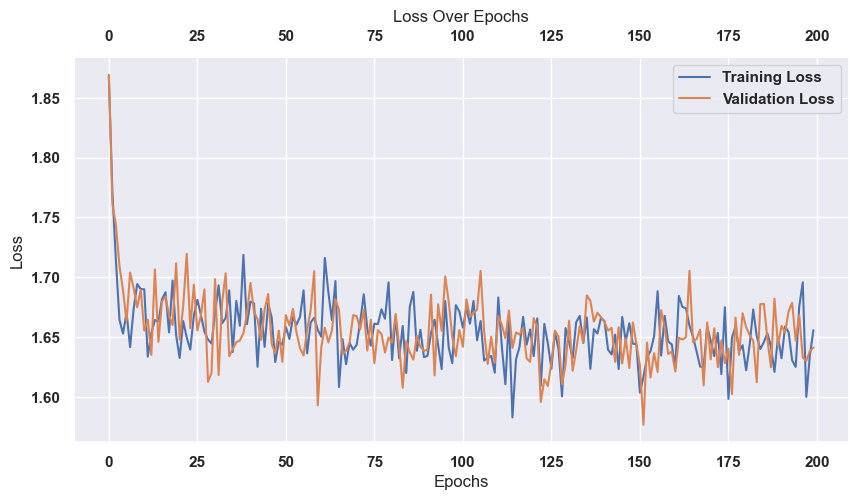
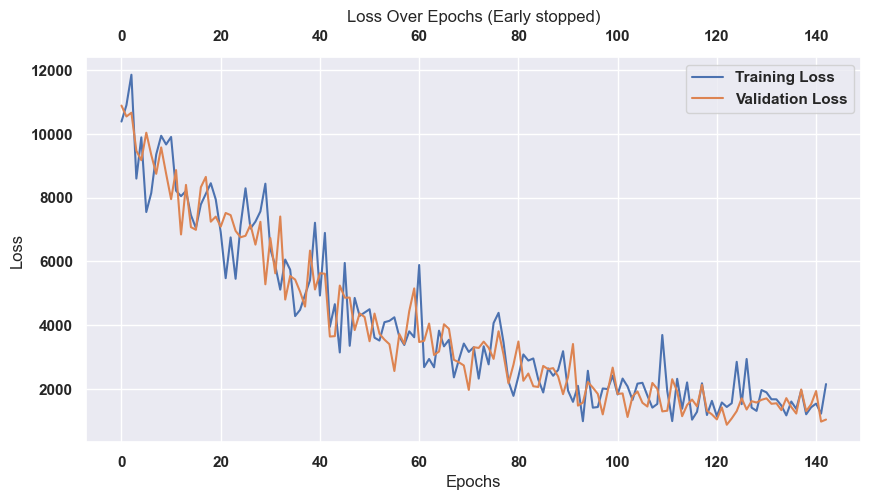
Updated readme

diff --git a/nn_training.py b/nn_training.py
@@ -33,7 +33,7 @@ def nnTraining(dataset, output_size):
   
   input_size = CustomDataset.input_size
   hidden_size = 64
-  num_layers = 1
+  num_layers = 2
   output_size = 1
   learning_rate = 0.001
   device = torch.device('cuda' if torch.cuda.is_available() else 'cpu')
@@ -45,6 +45,7 @@ def nnTraining(dataset, output_size):
   '''Trainin loop with early stopping'''
   num_epochs = 200
   patience = 20
+  best_loss = float('inf')
   best_model_wts = None
 
   train_losses = []
@@ -62,8 +63,10 @@ def nnTraining(dataset, output_size):
     val_losses.append(val_loss.mean().item())
 
     if epoch % 10 == 0:
-        print(f"Epoch {epoch}/{num_epochs}, Train Loss: {loss.item()}, Val Loss: {val_loss.item()}")
-    best_model_wts = model.state_dict()
+      print(f"Epoch {epoch}/{num_epochs}, Train Loss: {loss.item()}, Val Loss: {val_loss.item()}")
+    if val_loss < best_loss:
+      best_loss = val_loss
+      best_model_wts = model.state_dict()
 
     if early_stopper.early_stop(val_loss.item()):
       print(f"Early stopping at epoch {epoch}")
@@ -77,7 +80,8 @@ def nnTraining(dataset, output_size):
   plt.legend()
   plt.title('Loss Over Epochs (Early stopped)' if early_stopper.early_stopped else 'Loss Over Epochs')
   plt.savefig('./docs/loss_latest.png', bbox_inches='tight')  
-
+  
+  # torch.save(model.state_dict(), "horzie_model.pth") # Save the model
   best_model = model.load_state_dict(best_model_wts)
 
 def do_training(model, lossfn, optimizer, dataloader):

diff --git a/README.md b/README.md
@@ -31,21 +31,64 @@ Lots of weak correlations → lots of noise → tough problem.
 
 But that’s what makes this project fun!
 
+To increase the accuracy of my predictions, I will need a more robust dataset of the horses.
+You will see later in this document, but it's in plan to give me as up to date data as possible, with on sight analyzations.
+
 ## 🧠 Model Architecture
 
-My current "brain" is a simple fully connected neural network:
+My "brain" is a combination of an LSTM and a regression head.
+
+The idea is to analyze each horse's performance race by race, as a sequence.  
+For every horse, I feed its past races (with their features) into an LSTM.  
+From the last hidden state of the LSTM, I apply a linear layer to predict that horse's race time.  
+Once I have a predicted race time for each horse in a race, I can rank them and pick the five fastest.
 
 ```python
-self.model = nn.Sequential(
-  nn.Linear(in_features, 32),
-  nn.ReLU(),
-  nn.Linear(32, 16),
-  nn.ReLU(),
-  nn.Linear(16, output_size)
-)
+class CustomModel(nn.Module):
+  def __init__(self, input_size, hidden_size, num_layers, output_size, device):
+    super(CustomModel, self).__init__()
+    self.device = device
+    self.hidden_size = hidden_size
+    self.num_layers = num_layers
+    self.last_ht = None
+    self.lstm = nn.LSTM(input_size, hidden_size, num_layers, batch_first=True)
+    self.fc = nn.Linear(hidden_size, output_size)
 ```
 
-Yes, this probably needs improvement, but for now this is the baseline I’m experimenting with.
+To make this work, I need the data in a special format:
+
+- The dataset is a list of horses.
+- Each horse is represented by a sequence (list) of races.
+- Each race is a feature vector containing the race attributes (distance, jockey, trainer, sire, etc.) plus the race time as the target value.
+
+So the structure looks like this:
+
+```
+[ # horse 1
+  [ race_1_feature1, race_1_feature2, ..., race_1_featureK, race_time ],
+  [ race_2_feature1, race_2_feature2, ..., race_2_featureK, race_time ],
+  ...
+]
+```
+
+During training:
+
+- The input to the LSTM is all features except race time.
+- The target is the race time of the last race in the sequence.
+
+However, horses have **different numbers of past races**, which means their
+input sequences are not the same length.  
+Neural networks work best with fixed-size tensors, so to handle this, I use
+**sequence padding**:
+
+- shorter race histories are padded with zeros,
+- longer histories stay as they are,
+- and I keep track of the **original sequence lengths**.
+
+Using these lengths, the model applies `pack_padded_sequence`, which tells the LSTM
+to ignore the padded timesteps and only process the real race data.
+This allows the model to learn effectively even when horses have very different
+racing histories.
 
 ## 📉 Training Performance
 
@@ -53,9 +96,16 @@ Here’s how the loss developed during my first major training run:
 
 ![First loss over epochs](./docs/loss.png "First loss over epochs")
 
-Training and validation loss steadily decreased, for a limited time...
-Not perfect, but significantly better than random guessing
-This means the model is learning, but the problem remains highly unpredictable — which is exactly what makes it interesting.
+The model was trained using MSELoss, which penalizes the squared difference between the predicted race time and the real race time.
+Because race times are measured in seconds, the raw loss values represent seconds².
+
+During the best point of training, the validation MSE dropped to roughly `≈ 780 seconds²`
+To convert this into something meaningful, we take the square root (RMSE): `RMSE = √780 ≈ 28 seconds`
+
+This tells us:
+
+On average, the model's predicted race time is off by about `±28 seconds`.
+Given that typical race times are around 70–150 seconds, this corresponds to roughly: `Error ≈ 20–40%`
 
 Since then, my latest training looks like the following:
 
